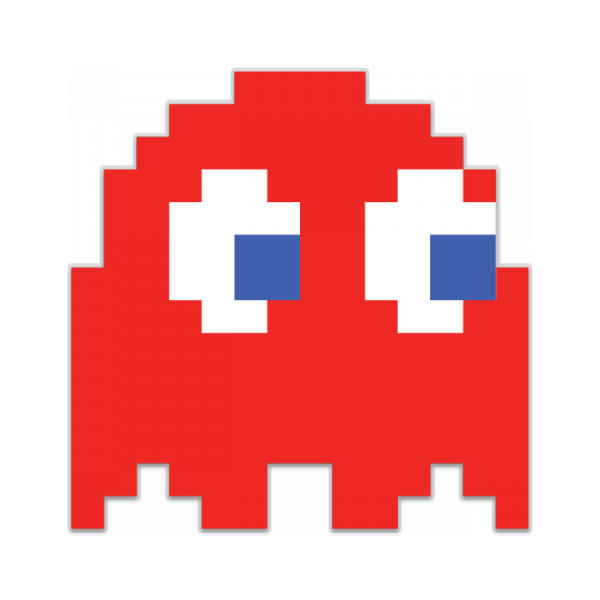
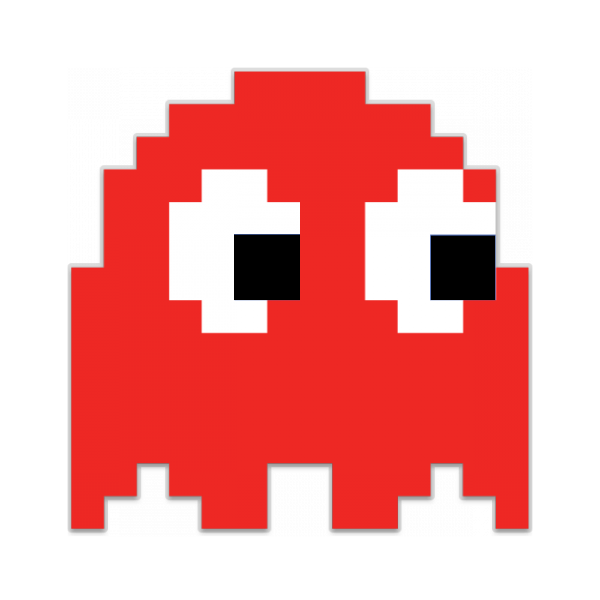
NEW1

Changed region(s): [[0.72, 0.39, 0.84, 0.51], [0.39, 0.39, 0.51, 0.51]]

diff --git a/core/src/com/mygdx/game/GdxGame.java b/core/src/com/mygdx/game/GdxGame.java
@@ -54,7 +54,6 @@ public class GdxGame extends ApplicationAdapter implements InputProcessor{
 	private static BitmapFont font;
 	private static Random random;
     private static long time = 0;
-    private static long now = 0;
     private FreeTypeFontGenerator generator;
 	private FreeTypeFontGenerator.FreeTypeFontParameter parameter;
 	@Override
@@ -66,10 +65,13 @@ public class GdxGame extends ApplicationAdapter implements InputProcessor{
 		blockSize = camera.viewportWidth / Columns;
 		blockSize2 = blockSize/2;
         packMan = new PackMan ( );
+
         ghosts = new Ghost[4];
-		for (int i=0; i<ghosts.length; i++) {
-			ghosts[i] = new Ghost ();
-		}
+        ghosts[0] = new Ghost (new Texture ( "ghost_yellow.png" ));
+		ghosts[1] = new Ghost (new Texture ( "ghost_blue.png" ));
+		ghosts[2] = new Ghost (new Texture ( "ghost_red.png" ) );
+		ghosts[3] = new Ghost (new Texture ( "ghost_green.png" ) );
+
 		SetStartGhostsPos(ghosts);
 		random = new Random();
 		packMan.SetTextureOpen ();
@@ -89,25 +91,10 @@ public class GdxGame extends ApplicationAdapter implements InputProcessor{
 		}
 	}
 
-	private void SetStartGhostsPos(Ghost[] ghosts) {
-		ghosts[0].SetPositionX ( 45 );
-		ghosts[0].SetPositionY ( 45 );
-
-		ghosts[1].SetPositionX ( 45 );
-		ghosts[1].SetPositionY ( 720 );
-
-		ghosts[2].SetPositionX ( 1350 );
-		ghosts[2].SetPositionY ( 720 );
-
-		ghosts[3].SetPositionX ( 1350 );
-		ghosts[3].SetPositionY ( 45 );
-	}
-
-
 	@Override
 	public void render() {
 		super.render();
-		now = TimeUtils.millis ();
+        long now = TimeUtils.millis ();
 		if(State.Paused == state)
 			time = now;
 		if(State.EndGame == state)
@@ -118,7 +105,7 @@ public class GdxGame extends ApplicationAdapter implements InputProcessor{
 			return;
 		}
 		state = State.Running;
-			if(time + 3000 < now ) {
+			if(time + 3000 < now) {
 				int accelX = ( int ) Gdx.input.getAccelerometerX ();
 				int accelY = ( int ) Gdx.input.getAccelerometerY ();
 
@@ -196,7 +183,7 @@ public class GdxGame extends ApplicationAdapter implements InputProcessor{
 				    ghost.draw ( batch );
 				font.draw ( batch, packMan.GetPoints () + "/"+120, camera.viewportWidth*0.9f, camera.viewportHeight*0.98f );
 				font.draw ( batch,"Current lives: "+packMan.GetCurrentLives (), 10,camera.viewportHeight*0.98f  );
-				font.draw ( batch, (3000-(now-time))/1000+"", camera.viewportWidth/2, camera.viewportHeight/2 );
+				font.draw ( batch, (3000-(now -time))/1000+"", camera.viewportWidth/2, camera.viewportHeight/2 );
 				batch.end ();
 			}
 
@@ -483,6 +470,20 @@ public class GdxGame extends ApplicationAdapter implements InputProcessor{
 		return false;
 	}
 
+	private void SetStartGhostsPos(Ghost[] ghosts) {
+		int x = (int)blockSize;
+		ghosts[0].SetPositionX ( x );
+		ghosts[0].SetPositionY ( x );
+
+		ghosts[1].SetPositionX ( x );
+		ghosts[1].SetPositionY ( ((Rows-2)*x)) ;
+
+		ghosts[2].SetPositionX ( ((Columns-2)*x) );
+		ghosts[2].SetPositionY ( ((Rows-2)*x));
+
+		ghosts[3].SetPositionX ( ((Columns-2)*x) );
+		ghosts[3].SetPositionY ( x );
+	}
 	public enum State{
 		Running, Paused, EndGame
 	}

diff --git a/core/src/com/mygdx/game/Ghost.java b/core/src/com/mygdx/game/Ghost.java
@@ -15,8 +15,7 @@ class Ghost extends Sprite {
     private boolean CollisionBottom;
     private int Direction;                  //1-> prawo, 2-> góra, 3-> lewo, 4-> dół
 
-    Ghost() {
-
+    Ghost(Texture texture) {
         CollisionLeft = false;
         CollisionRight = false;
         CollisionTop = false;
@@ -24,14 +23,14 @@ class Ghost extends Sprite {
         Direction = 1;
         PositionX = StartPositionX;
         PositionY = StartPositionY;
-        this.setTexture (  new Texture ( "ghost_yellow.png" ));
+        this.setTexture ( texture );
         this.setRegion ( 0, 0, 600,600);
         setColor(1, 1, 1, 1);
         setSize(600, 600);
         setOrigin(getWidth ()/2, getHeight ()/2);
         setScale ( 0.05f );
-
     }
+
 
     void SetPositionX(int positionX)
     {
@@ -68,4 +67,5 @@ class Ghost extends Sprite {
     void ResetCollision(){ CollisionBottom = false;CollisionTop = false;CollisionLeft = false;CollisionRight =false;}
     void Dispose(){ this.getTexture ().dispose (); }
     void ToStartPos(){PositionX = StartPositionX; PositionY = StartPositionY;}
+
 }
